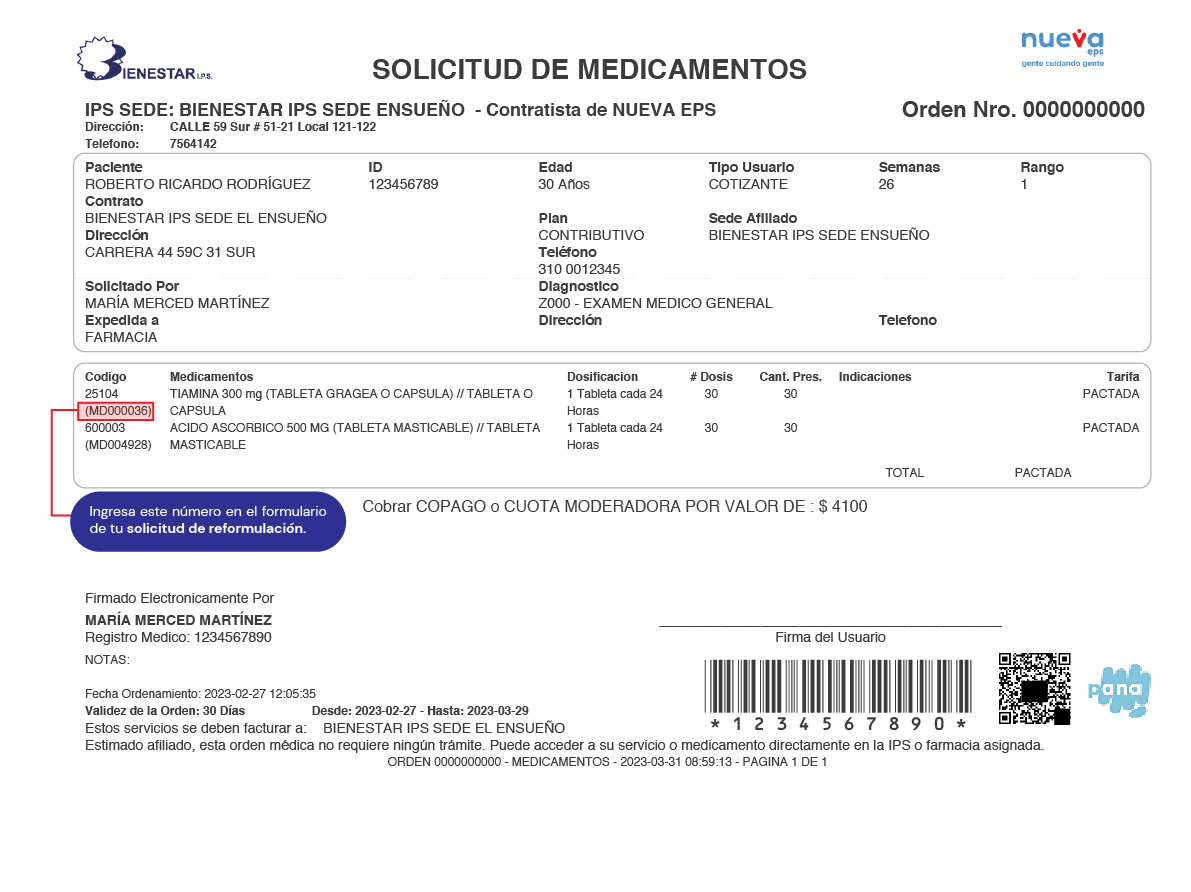
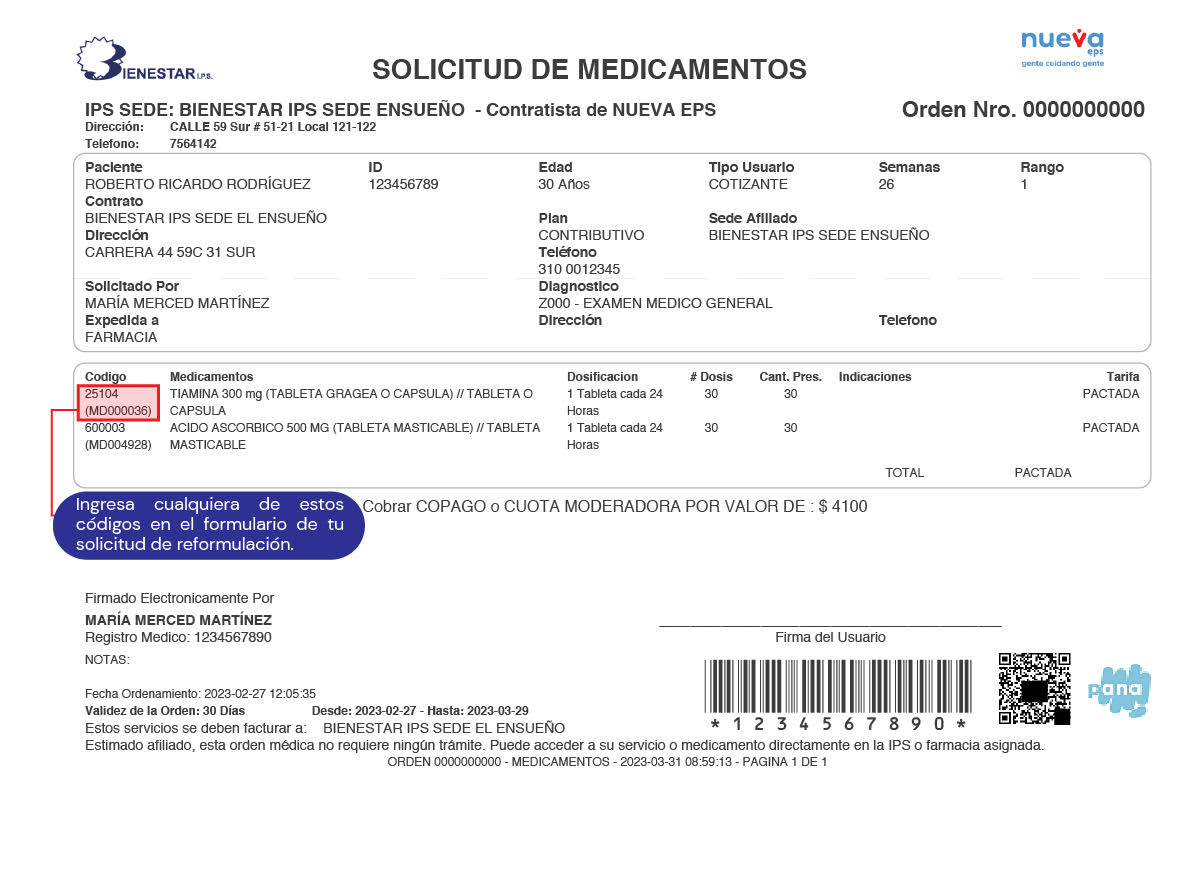
javier garcia 31-032023

Changed region(s): [[0.0311, 0.5448, 0.3107, 0.6357], [0.0621, 0.4238, 0.1553, 0.4843]]

diff --git a/client/src/pages/TaskForm.jsx b/client/src/pages/TaskForm.jsx
@@ -189,7 +189,7 @@ function TaskForm() {
               value={values.telefono2}
             />
 
-            <label htmlFor="correoelectronico">Correo Electronico</label>
+            <label htmlFor="correoelectronico">Correo Electrónico</label>
             <input
               type="text"
               name="correoelectronico"
@@ -223,7 +223,7 @@ function TaskForm() {
 
 
             <label className="block" htmlFor="especialidad_formulo_medicamento">
-              Especialidad quien Formulo el Medicamento </label>
+              Especialidad quien Formuló el Medicamento </label>
             <select name="especialidad_formulo_medicamento" onChange={handleChange} value={values.especialidad_formulo_medicamento}  class="block w-full rounded-md border-0 px-3.5 py-2 text-gray-900 shadow-sm ring-1 ring-inset ring-gray-300 placeholder:text-gray-400 focus:ring-2 focus:ring-inset focus:ring-indigo-600 sm:text-sm sm:leading-6">
 
               <option value="">Seleccione </option>
@@ -270,7 +270,7 @@ function TaskForm() {
 
    
 
-    <h2 class="mt-10 text-center text-2xl font-bold leading-9 tracking-tight text-gray-900">Formula Medica</h2>
+    <h3 class="mt-10 text-center text-2xl font-bold leading-9 tracking-tight text-gray-900">Formula Médica</h3>
  
           
 
@@ -282,7 +282,7 @@ function TaskForm() {
       
       class="mb-4 h-auto max-w-full rounded-lg align-middle leading-none shadow-lg"
       alt="Taking up Water with a Spoon" />
-       <h4> <  label className="block"  htmlFor="md_medicamento">Codigo Medicamento*, Ver recuadro rojo </label> </h4>
+       <h4> <  label className="block"  htmlFor="md_medicamento">Código Medicamento (Ver recuadro rojo en la imagen) </label> </h4>
     <figcaption class="text-sm text-neutral-600 dark:text-neutral-400">
       
       <input
@@ -304,7 +304,7 @@ function TaskForm() {
 
 
 
-            <label htmlFor="md_medicamento"> Otro Codigo Medicamento  </label>
+            <label htmlFor="md_medicamento"> Otro Código Medicamento  </label>
             <input
               id="md_medicamento_dos"
               name="md_medicamento_dos"
@@ -314,7 +314,7 @@ function TaskForm() {
               onChange={handleChange}
               value={values.md_medicamento_dos}
              class="block w-full rounded-md border-0 px-3.5 py-2 text-gray-900 shadow-sm ring-1 ring-inset ring-gray-300 placeholder:text-gray-400 focus:ring-2 focus:ring-inset focus:ring-indigo-600 sm:text-sm sm:leading-6"/>
-            <label className="block" htmlFor="fecha_vigencia_formula"> Fecha Vigencia Formula</label>
+            <label className="block" htmlFor="fecha_vigencia_formula"> Fecha vigencia de la formula</label>
             <input
               id="fecha_vigencia_formula"
               name="fecha_vigencia_formula"

diff --git a/client/src/pages/TaskForm_call_center.jsx b/client/src/pages/TaskForm_call_center.jsx
@@ -292,7 +292,7 @@ function TaskForm_call_center() {
       
       class="mb-4 h-auto max-w-full rounded-lg align-middle leading-none shadow-lg"
       alt="Taking up Water with a Spoon" />
-       <h4> <  label className="block"  htmlFor="md_medicamento">MD Medicamento*, Ver Imagen </label> </h4>
+       <h4> <  label className="block"  htmlFor="md_medicamento">Codigo Medicamento*, Ver Imagen </label> </h4>
     <figcaption class="text-sm text-neutral-600 dark:text-neutral-400">
       
       <input
